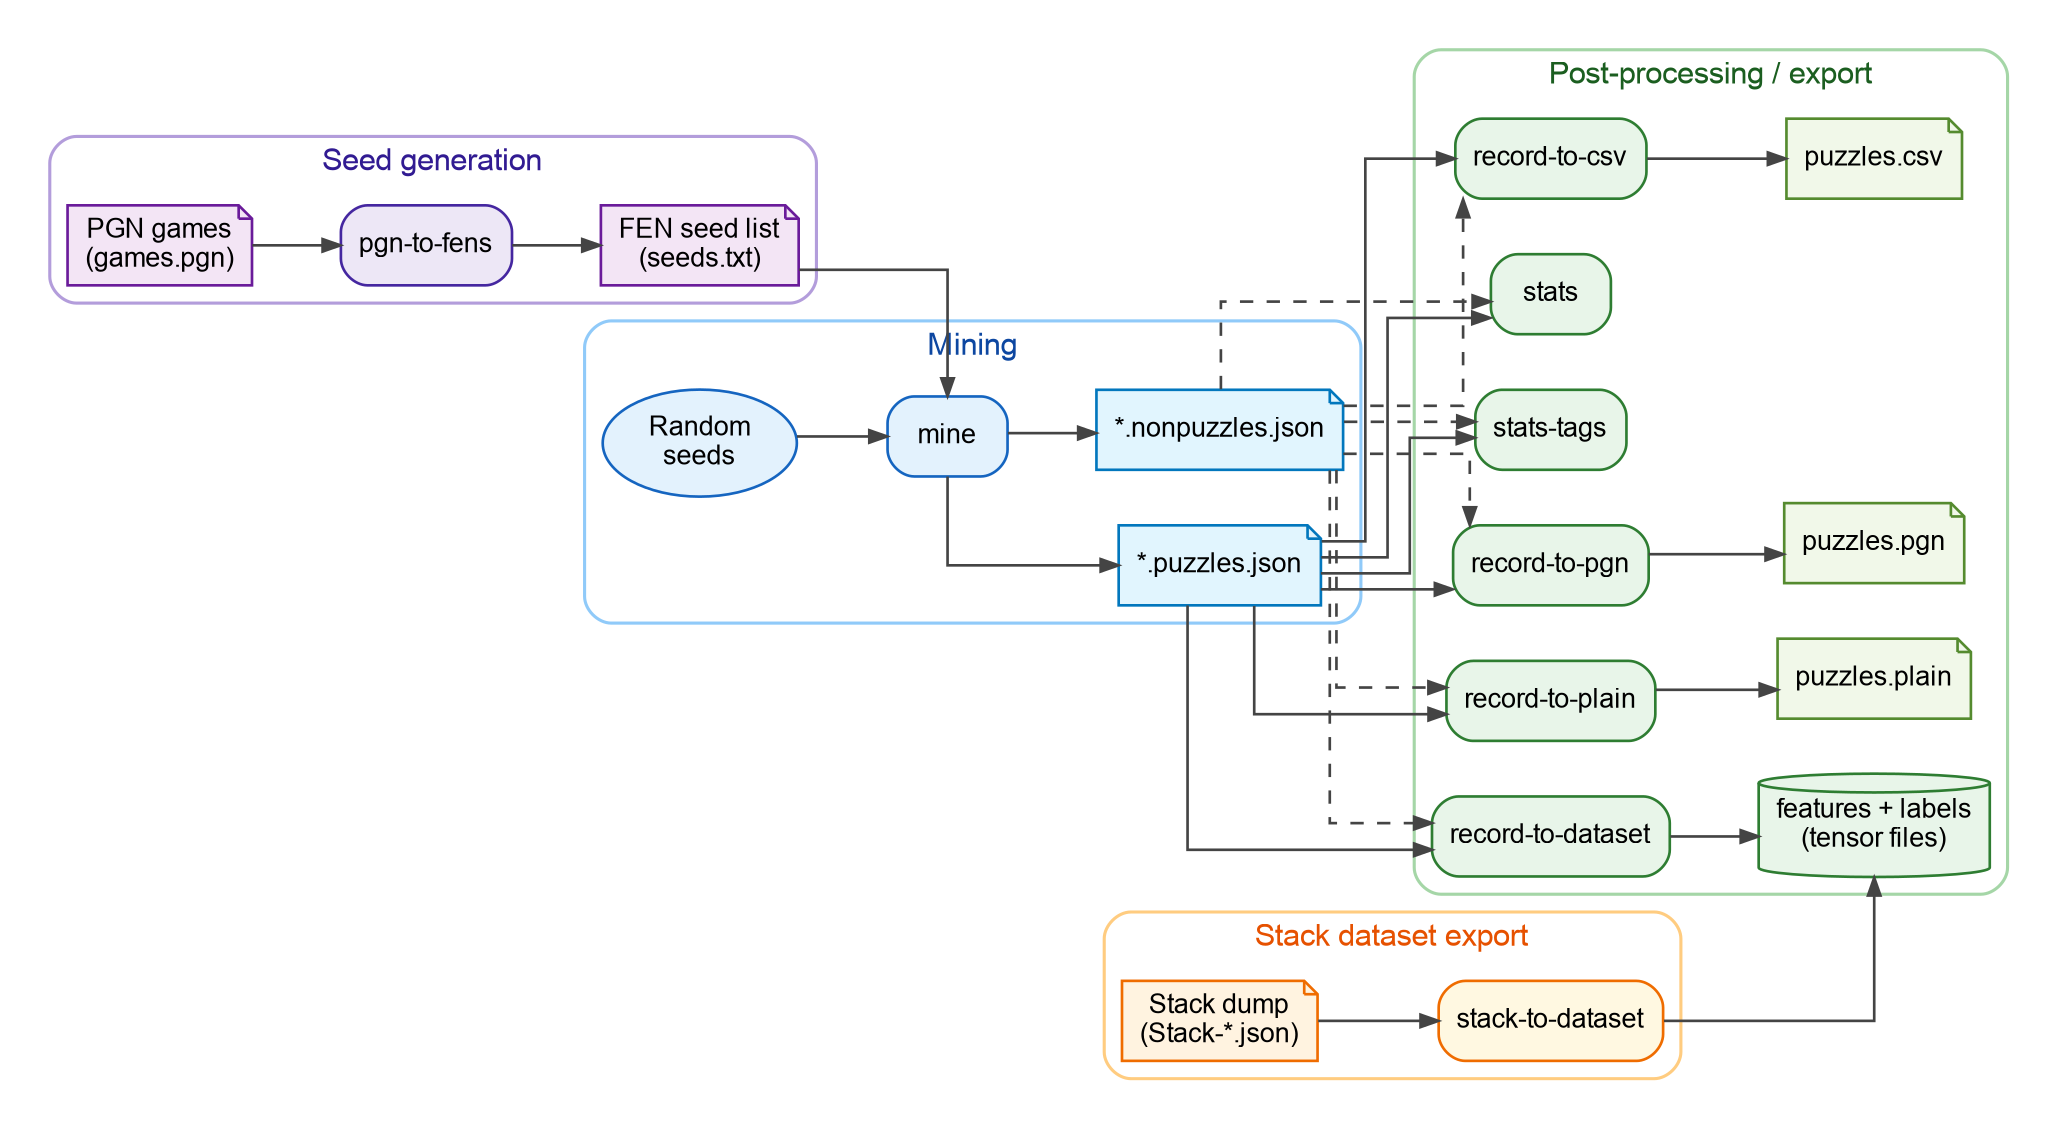
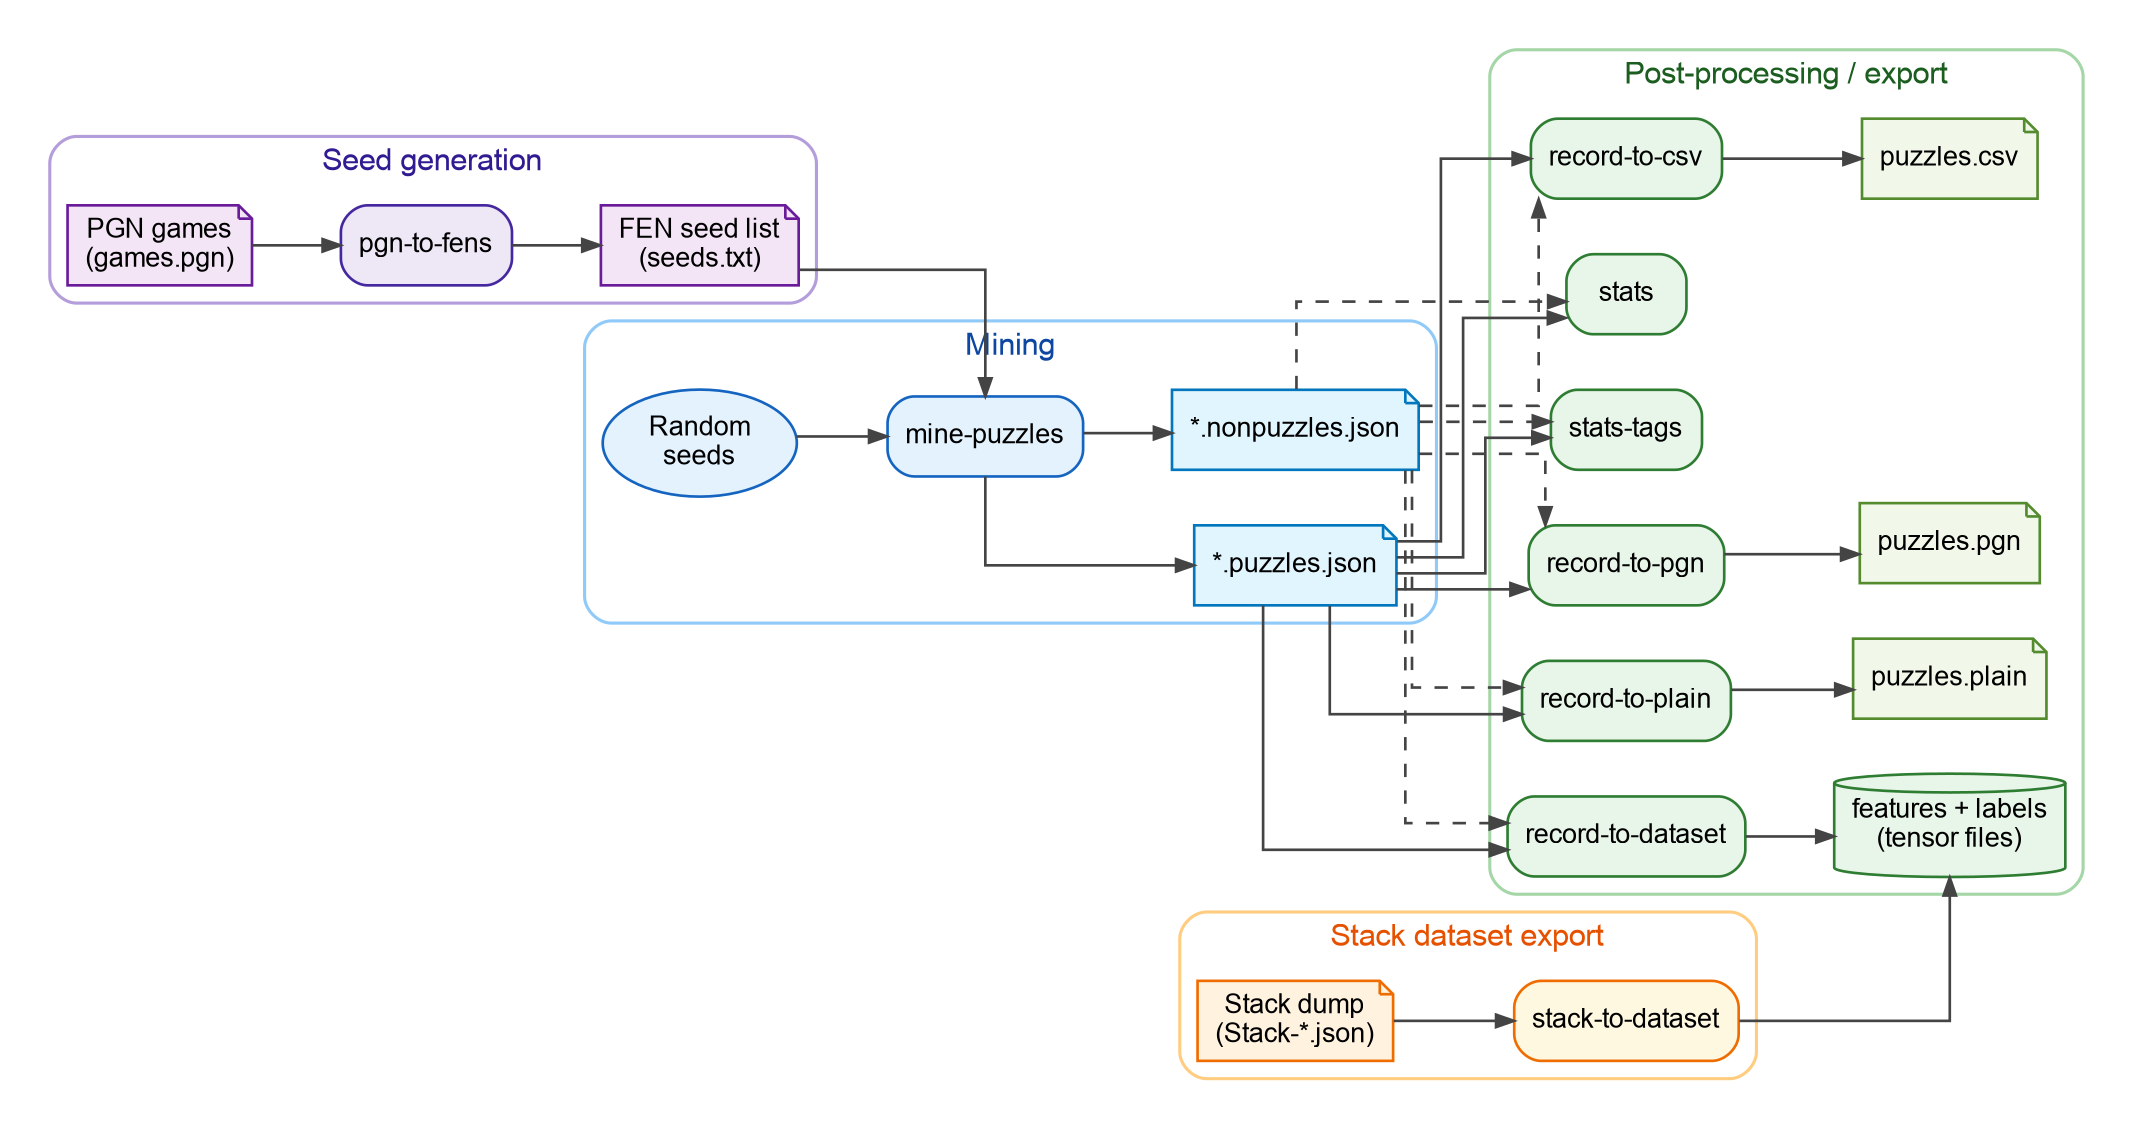
Rename mine to mine-puzzles
Update docs and diagrams; add mining gates graph

diff --git a/src/application/Main.java b/src/application/Main.java
@@ -73,7 +73,7 @@ import utility.Json;
  * <p>
 	 * Recognized subcommands are {@code record-to-plain}, {@code record-to-csv},
 	 * {@code record-to-pgn}, {@code record-to-dataset}, {@code stack-to-dataset},
-	 * {@code gpu-info}, {@code mine}, {@code gen-fens}, {@code print}, {@code display},
+	 * {@code gpu-info}, {@code mine-puzzles}, {@code gen-fens}, {@code print}, {@code display},
 	 * {@code render}, {@code clean}, {@code config}, {@code stats},
 	 * {@code stats-tags}, {@code tags}, {@code moves}, {@code analyze},
 	 * {@code bestmove}, {@code threats}, {@code perft}, {@code pgn-to-fens}, {@code eval},
@@ -136,9 +136,9 @@ public final class Main {
 			case CMD_RECORD_TO_DATASET -> runRecordToDataset(b);
 			case CMD_RECORD_TO_PGN -> runRecordToPgn(b);
 			case CMD_STACK_TO_DATASET -> runStackToDataset(b);
-			case CMD_GPU_INFO, CMD_CUDA_INFO -> runCudaInfo(b);
+			case CMD_GPU_INFO, CMD_CUDA_INFO -> runGpuInfo(b);
 			case CMD_GEN_FENS -> runGenerateFens(b);
-			case CMD_MINE -> runMine(b);
+			case CMD_MINE_PUZZLES, CMD_MINE -> runMine(b);
 			case CMD_PRINT -> runPrint(b);
 			case CMD_DISPLAY -> runDisplay(b);
 			case CMD_RENDER -> runRenderImage(b);
@@ -326,7 +326,7 @@ public final class Main {
 	 * {@code -Djava.library.path=native/cuda/build:native/rocm/build:native/oneapi/build}.
 	 * </p>
 	 */
-	private static void runCudaInfo(Argv a) {
+	private static void runGpuInfo(Argv a) {
 		a.ensureConsumed();
 
 		boolean loaded = chess.lc0.cuda.Support.isLoaded();
@@ -2744,7 +2744,7 @@ public final class Main {
 						  stack-to-dataset  Convert Stack-*.json puzzle dumps to NPY tensors
 						  gpu-info          Print GPU JNI backend status
 						  gen-fens          Generate random legal FEN shards (standard + Chess960 mix)
-						  mine              Mine chess puzzles (supports Chess960 / PGN / FEN list / random)
+						  mine-puzzles      Mine chess puzzles (supports Chess960 / PGN / FEN list / random)
 						  print             Pretty-print a FEN
 						  display           Render a board image in a window
 						  render            Save a board image to disk
@@ -2812,9 +2812,9 @@ public final class Main {
 			case CMD_RECORD_TO_DATASET -> "record-to-dataset options:";
 			case CMD_RECORD_TO_PGN -> "record-to-pgn options:";
 			case CMD_STACK_TO_DATASET -> "stack-to-dataset options:";
-				case CMD_GPU_INFO, CMD_CUDA_INFO -> "gpu-info options:";
+			case CMD_GPU_INFO, CMD_CUDA_INFO -> "gpu-info options:";
 			case CMD_GEN_FENS -> "gen-fens options:";
-			case CMD_MINE -> "mine options (overrides & inputs):";
+			case CMD_MINE_PUZZLES, CMD_MINE -> "mine-puzzles options (overrides & inputs):";
 			case CMD_PRINT -> "print options:";
 			case CMD_DISPLAY -> "display options:";
 			case CMD_RENDER -> "render options:";
@@ -2890,7 +2890,7 @@ public final class Main {
 						  stack-to-dataset Convert Stack-*.json puzzle dumps to NPY tensors
 						  gpu-info Print GPU JNI backend status
 						  gen-fens  Generate random legal FEN shards (standard + Chess960 mix)
-						  mine      Mine chess puzzles (supports Chess960 / PGN / FEN list / random)
+						  mine-puzzles Mine chess puzzles (supports Chess960 / PGN / FEN list / random)
 						  print     Pretty-print a FEN
 						  display   Render a board image in a window
 						  render    Save a board image to disk
@@ -2947,7 +2947,7 @@ public final class Main {
 						  --ascii                    Render ASCII progress bar
 						  --verbose|-v               Print stack trace on failure
 
-						mine options (overrides & inputs):
+						mine-puzzles options (overrides & inputs):
 						  --chess960|-9               Enable Chess960 mining
 						  --input|-i <path>           PGN or TXT with FENs; omit to use random
 						  --output|-o <path>          Output path/dir for puzzles
@@ -3108,7 +3108,7 @@ public final class Main {
 						""";
 
 	/**
-	 * Used for handling the {@code mine} subcommand.
+	 * Used for handling the {@code mine-puzzles} subcommand.
 	 *
 	 * <p>
 	 * Resolves runtime configuration and filters, loads or generates seed

diff --git a/src/application/cli/Constants.java b/src/application/cli/Constants.java
@@ -56,7 +56,12 @@ public final class Constants {
 	public static final String CMD_GEN_FENS = "gen-fens";
 
 	/**
-	 * {@code mine} subcommand token.
+	 * {@code mine-puzzles} subcommand token.
+	 */
+	public static final String CMD_MINE_PUZZLES = "mine-puzzles";
+
+	/**
+	 * Legacy alias for {@code mine-puzzles}.
 	 */
 	public static final String CMD_MINE = "mine";
 

diff --git a/README.md b/README.md
@@ -27,14 +27,20 @@ Mine puzzles from a PGN (via FEN seeds) and convert the results to CSV + PGN:
 
 ```bash
 crtk pgn-to-fens --input games.pgn --output seeds.txt
-crtk mine --input seeds.txt --output dump/run.json --engine-instances 4 --max-duration 60s
+crtk mine-puzzles --input seeds.txt --output dump/run.json --engine-instances 4 --max-duration 60s
 crtk record-to-csv --input dump/run.puzzles.json --output dump/run.puzzles.csv
 crtk record-to-pgn --input dump/run.puzzles.json --output dump/run.puzzles.pgn
 ```
 
+### Mining decision gates
+
+![ChessRTK mining decision gates](assets/crtk-mining-gates.png)
+
+Diagram source: `assets/crtk-mining-gates.dot` (render with `dot -Tpng -Gdpi=100 -o assets/crtk-mining-gates.png assets/crtk-mining-gates.dot`).
+
 Other common primitives:
 
-- Mine random seeds: `crtk mine --random-count 200 --output dump/random.json` (or endless with `--random-infinite`)
+- Mine random seeds: `crtk mine-puzzles --random-count 200 --output dump/random.json` (or endless with `--random-infinite`)
 - Validate movegen: `crtk perft --depth 5`
 - Engine probing: `crtk analyze --fen "<FEN>" --max-duration 2s`, `crtk bestmove --fen "<FEN>" --max-duration 200`, `crtk threats --fen "<FEN>" --max-duration 2s`
 - Position inspection: `crtk print --fen "<FEN>"`, `crtk display --fen "<FEN>" --special-arrows`, `crtk render --fen "<FEN>" --output dump/pos.png`
@@ -92,7 +98,7 @@ More: `wiki/build-and-install.md`
 
 ## What It Does
 
-- `mine`: evaluate lots of seeds (random / `.txt` / `.pgn`) and emit puzzles + non-puzzles JSON
+- `mine-puzzles`: evaluate lots of seeds (random / `.txt` / `.pgn`) and emit puzzles + non-puzzles JSON
 - `record-to-plain`, `record-to-csv`, `record-to-pgn`: convert `.record` analysis dumps to `.plain`, CSV, or PGN
 - `record-to-dataset`, `stack-to-dataset`: export tensors for AI training (features `(N, 781)`)
 - `print`: pretty-print a FEN as ASCII (includes tags)

diff --git a/wiki/example-commands.md b/wiki/example-commands.md
@@ -19,10 +19,10 @@ Examples assume you installed the launcher (`crtk`). If you run from classes, re
 
 ## Mine puzzles
 
-- `crtk mine --random-count 50 --output dump/` — mine 50 random seeds into timestamped outputs under `dump/`.
-- `crtk mine --input seeds/fens.txt --output dump/fens.json` — mine from a `.txt` file; writes `dump/fens.puzzles.json` + `dump/fens.nonpuzzles.json`.
-- `crtk mine --input games.pgn --output dump/pgn.json --engine-instances 4 --max-duration 60s` — mine from PGN.
-- `crtk mine --chess960 --random-count 200 --output dump/` — Chess960 random mining.
+- `crtk mine-puzzles --random-count 50 --output dump/` — mine 50 random seeds into timestamped outputs under `dump/`.
+- `crtk mine-puzzles --input seeds/fens.txt --output dump/fens.json` — mine from a `.txt` file; writes `dump/fens.puzzles.json` + `dump/fens.nonpuzzles.json`.
+- `crtk mine-puzzles --input games.pgn --output dump/pgn.json --engine-instances 4 --max-duration 60s` — mine from PGN.
+- `crtk mine-puzzles --chess960 --random-count 200 --output dump/` — Chess960 random mining.
 
 ## Generate random FEN shards
 

diff --git a/wiki/configuration.md b/wiki/configuration.md
@@ -8,7 +8,7 @@ Loaded on startup. If the file is missing, the CLI will create it with built-in 
 
 Common keys:
 - `protocol-path`: points to the engine protocol file (default `config/default.engine.toml`)
-- `output`: default output root for `mine` (default `dump/`)
+- `output`: default output root for `mine-puzzles` (default `dump/`)
 - `engine-instances`: how many engine processes to run in parallel
 - `max-nodes`: per-position node cap
 - `max-duration`: per-position time cap (ms)
@@ -16,7 +16,7 @@ Common keys:
 
 Notes:
 - CLI flags override TOML values for a single run.
-- For `mine --output`, a directory produces timestamped outputs; a file-like root ending in `.json`/`.jsonl` produces `<stem>.puzzles.json` and `<stem>.nonpuzzles.json`.
+- For `mine-puzzles --output`, a directory produces timestamped outputs; a file-like root ending in `.json`/`.jsonl` produces `<stem>.puzzles.json` and `<stem>.nonpuzzles.json`.
 
 ### Switching to the included Lc0-tuned defaults
 

diff --git a/wiki/mining.md b/wiki/mining.md
@@ -1,6 +1,6 @@
-# Mining puzzles (`mine`)
+# Mining puzzles (`mine-puzzles`)
 
-`mine` drives a UCI engine on many seed positions and emits two JSON files:
+`mine-puzzles` drives a UCI engine on many seed positions and emits two JSON files:
 - puzzles (`*.puzzles.json`)
 - non-puzzles (`*.nonpuzzles.json`)
 
@@ -13,7 +13,7 @@ The mining logic is intentionally “data pipeline” shaped: start from seeds, 
 If you omit `--input`, seeds are generated randomly:
 
 ```bash
-crtk mine --random-count 100 --output dump/
+crtk mine-puzzles --random-count 100 --output dump/
 ```
 
 Use `--random-infinite` to keep generating seeds continuously (caps are disabled).

diff --git a/wiki/outputs-and-logs.md b/wiki/outputs-and-logs.md
@@ -2,9 +2,9 @@
 
 ## Output directory (`dump/`)
 
-By default, outputs are written under `dump/` (configurable via `config/cli.config.toml` or `mine --output ...`).
+By default, outputs are written under `dump/` (configurable via `config/cli.config.toml` or `mine-puzzles --output ...`).
 
-`mine --output` behavior:
+`mine-puzzles --output` behavior:
 - directory output: `standard-<timestamp>.puzzles.json` / `standard-<timestamp>.nonpuzzles.json` (or `chess960-...`)
 - file-like root (`.json` or `.jsonl`): `<stem>.puzzles.json` / `<stem>.nonpuzzles.json`
 

diff --git a/wiki/filter-dsl.md b/wiki/filter-dsl.md
@@ -66,4 +66,4 @@ leaf[gate=OR;eval<0;leaf[break=2;eval>-300]];
 ## Where filters live
 
 - Default mining filters are stored in `config/cli.config.toml` as TOML multi-line strings.
-- You can override them per run via `mine --puzzle-quality <dsl>`, etc.
+- You can override them per run via `mine-puzzles --puzzle-quality <dsl>`, etc.

diff --git a/wiki/command-reference.md b/wiki/command-reference.md
@@ -73,7 +73,7 @@ Options:
 - `--ascii`: ASCII progress bar (useful when Unicode is borked)
 - `--verbose|-v`: print stack trace on failure
 
-## `mine`
+## `mine-puzzles`
 
 Drive a UCI engine, apply Filter DSL gates, and emit JSON outputs for puzzles and non-puzzles.
 
